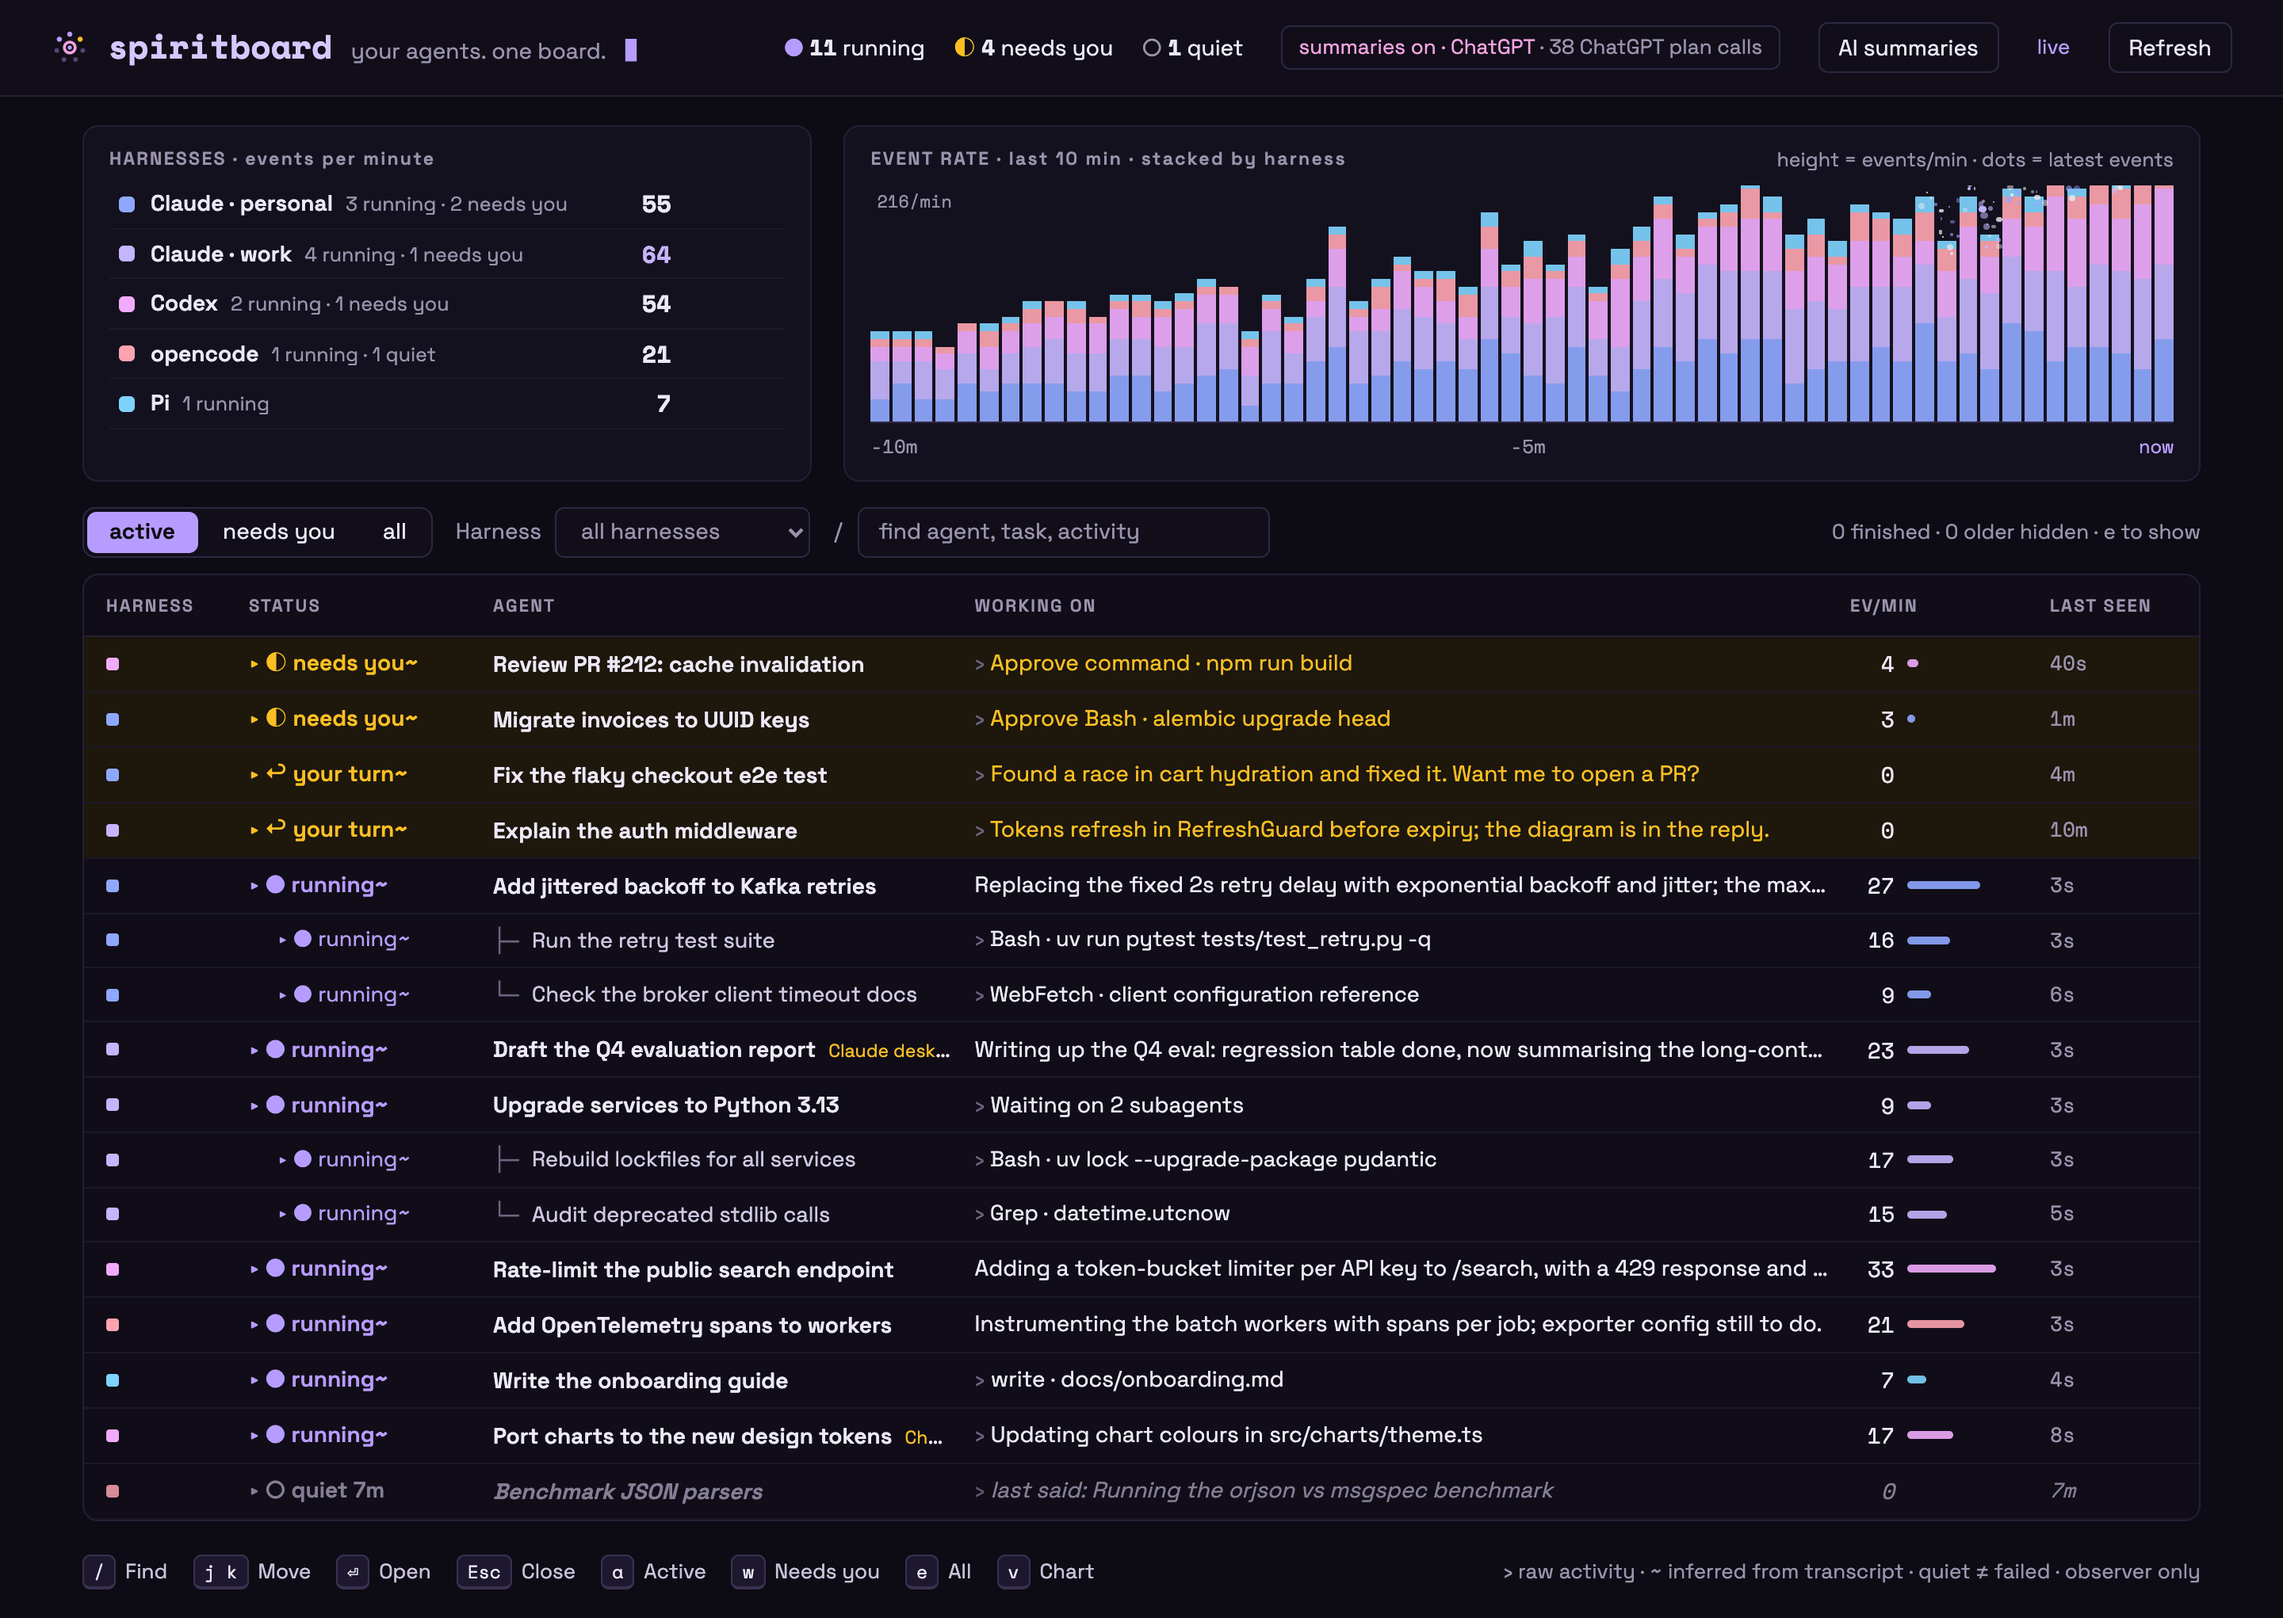
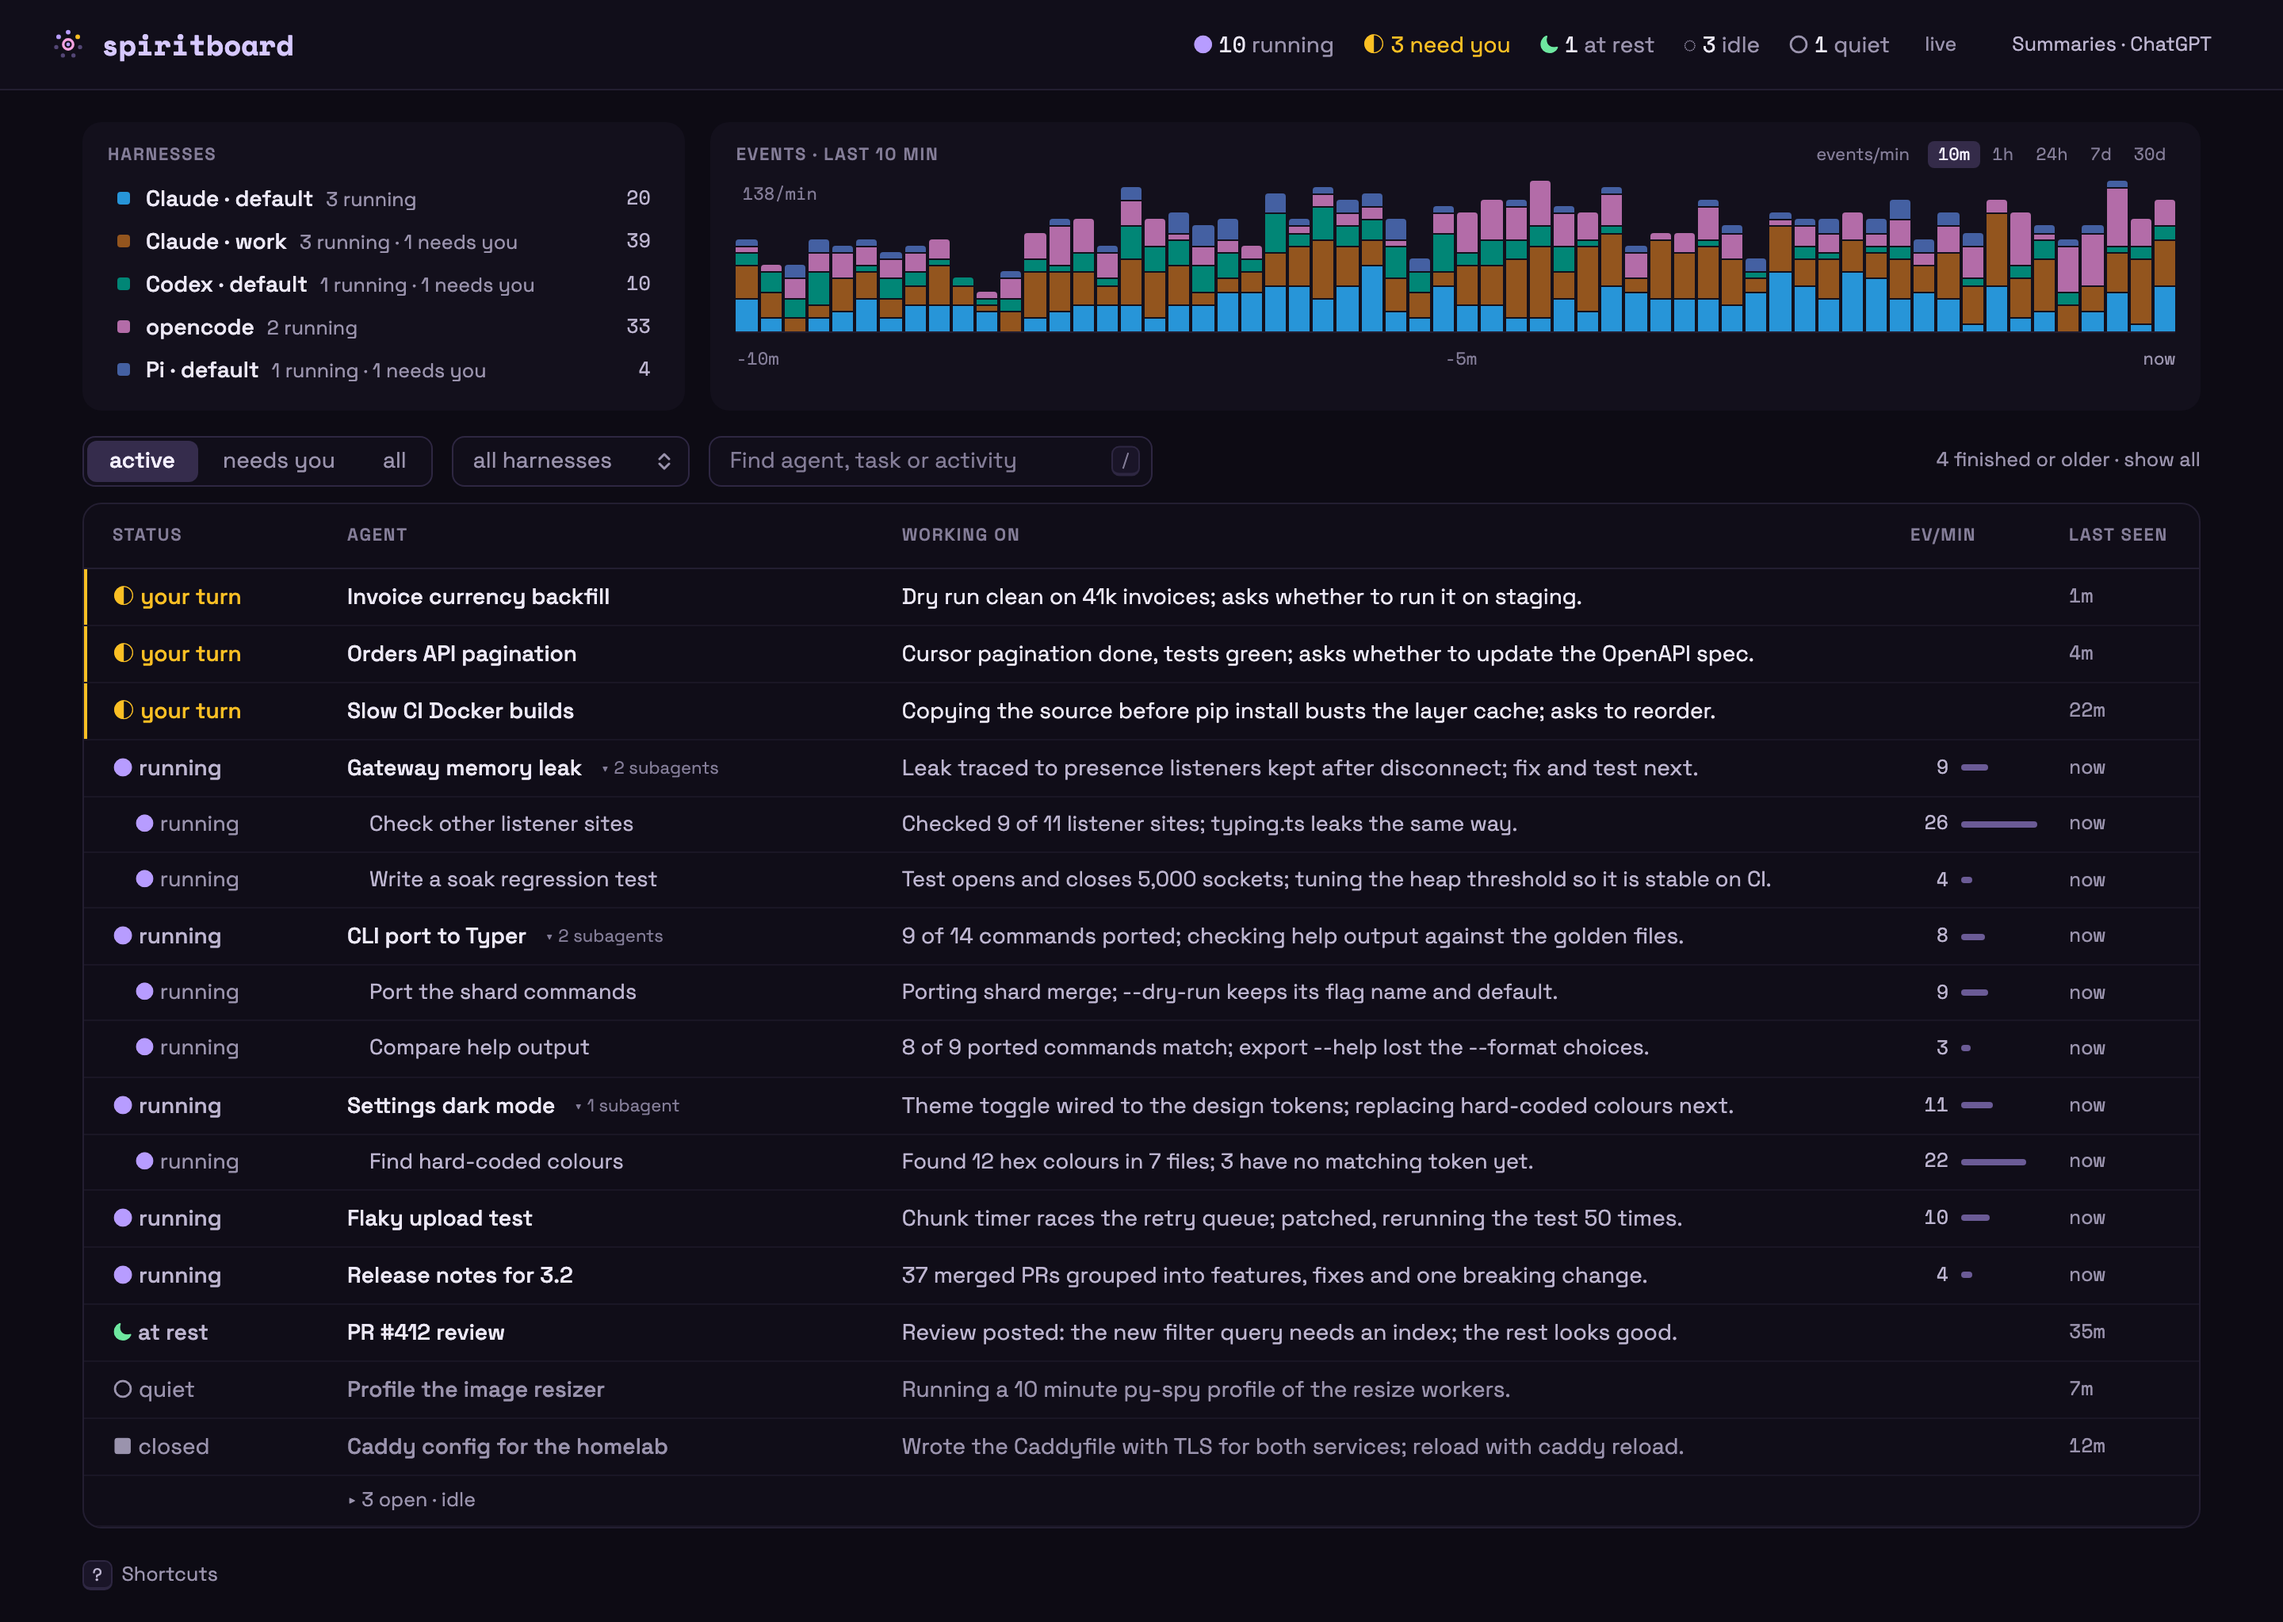
feat: make harness colours distinct for every reader

diff --git a/src/spiritboard/static/style.css b/src/spiritboard/static/style.css
@@ -80,11 +80,11 @@ main { max-width: 1400px; margin: 0 auto; padding: 20px 32px; display: flex; fle
 .zoom button:hover { color: var(--text); }
 .zoom button[aria-pressed="true"] { background: #b79cff33; color: var(--bright); }
 .flux { position: relative; height: 96px; overflow: hidden; border-bottom: 1px solid var(--line); display: flex; align-items: flex-end; gap: 2px; }
-.flux .col { flex: 1; display: flex; flex-direction: column; min-width: 0; opacity: .72; }
+.flux .col { flex: 1; display: flex; flex-direction: column; min-width: 0; }
 .flux .col { align-self: stretch; justify-content: flex-end; cursor: pointer; }
 .flux .col > span + span { border-top: 1px solid var(--panel); }
 .flux .col > span:first-child { border-radius: 2px 2px 0 0; }
-.flux .col:hover { opacity: 1; background: #ffffff0a; }
+.flux .col:hover { background: #ffffff0a; }
 .flux .ymax, .flux .marker { pointer-events: none; }
 .flux .marker { position: absolute; top: 0; bottom: 0; z-index: 1; width: 2px; margin-left: -1px; background: var(--wait); }
 .flux .ymax { position: absolute; left: 4px; top: 0; color: var(--dim); font-family: var(--mono); font-size: var(--fs-xs); }

diff --git a/src/spiritboard/static/app.js b/src/spiritboard/static/app.js
@@ -3,8 +3,9 @@
 (() => {
   const $ = (id) => document.getElementById(id);
   const terminal = new Set(["completed", "failed", "cancelled"]);
-  // Validated for the dark surface; amber, green and red stay reserved for statuses.
-  const PALETTE = ["#8b77c4", "#009b9c", "#bd7042", "#5488ca", "#b76896", "#2092be"];
+  // Any two differ by OKLab ΔE ≥ 15, and by ≥ 8 with simulated red-green colour blindness; each reaches 3:1
+  // on every surface and stays ≥ 15 from the status colours. Bars draw them at full opacity. Re-check any edit.
+  const PALETTE = ["#2795d8", "#93551e", "#018676", "#b36ca8", "#4460a2", "#85a149"];
   const QUIET_WINDOW = 30 * 60 * 1000;
   // A turn left unanswered in a still-open session stays yours this long.
   const OPEN_TURN_WINDOW = 12 * 3600 * 1000;
